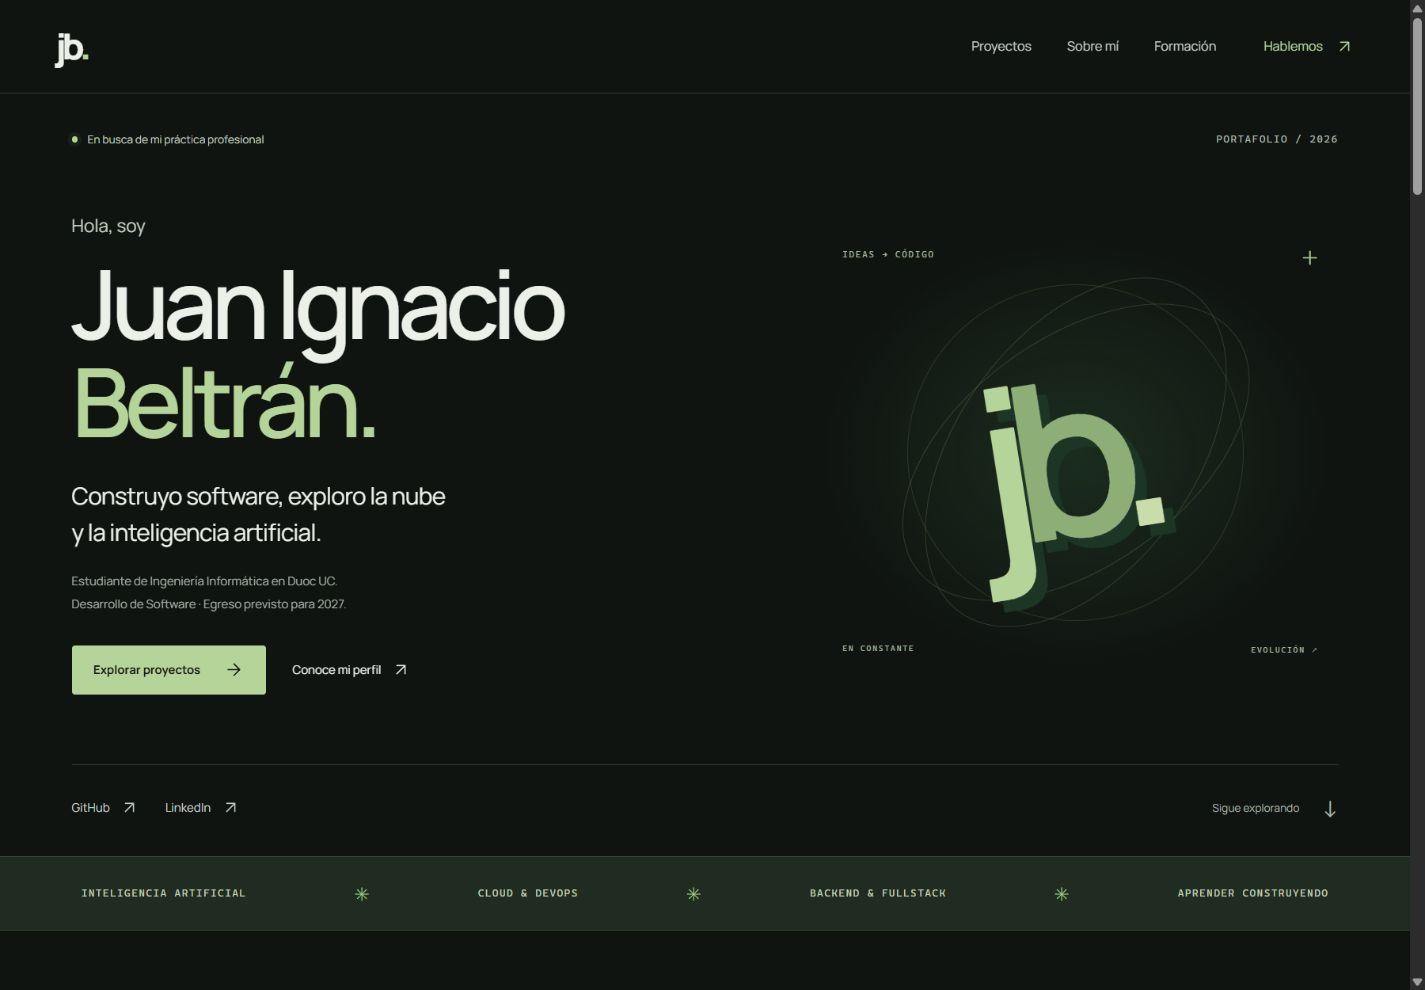
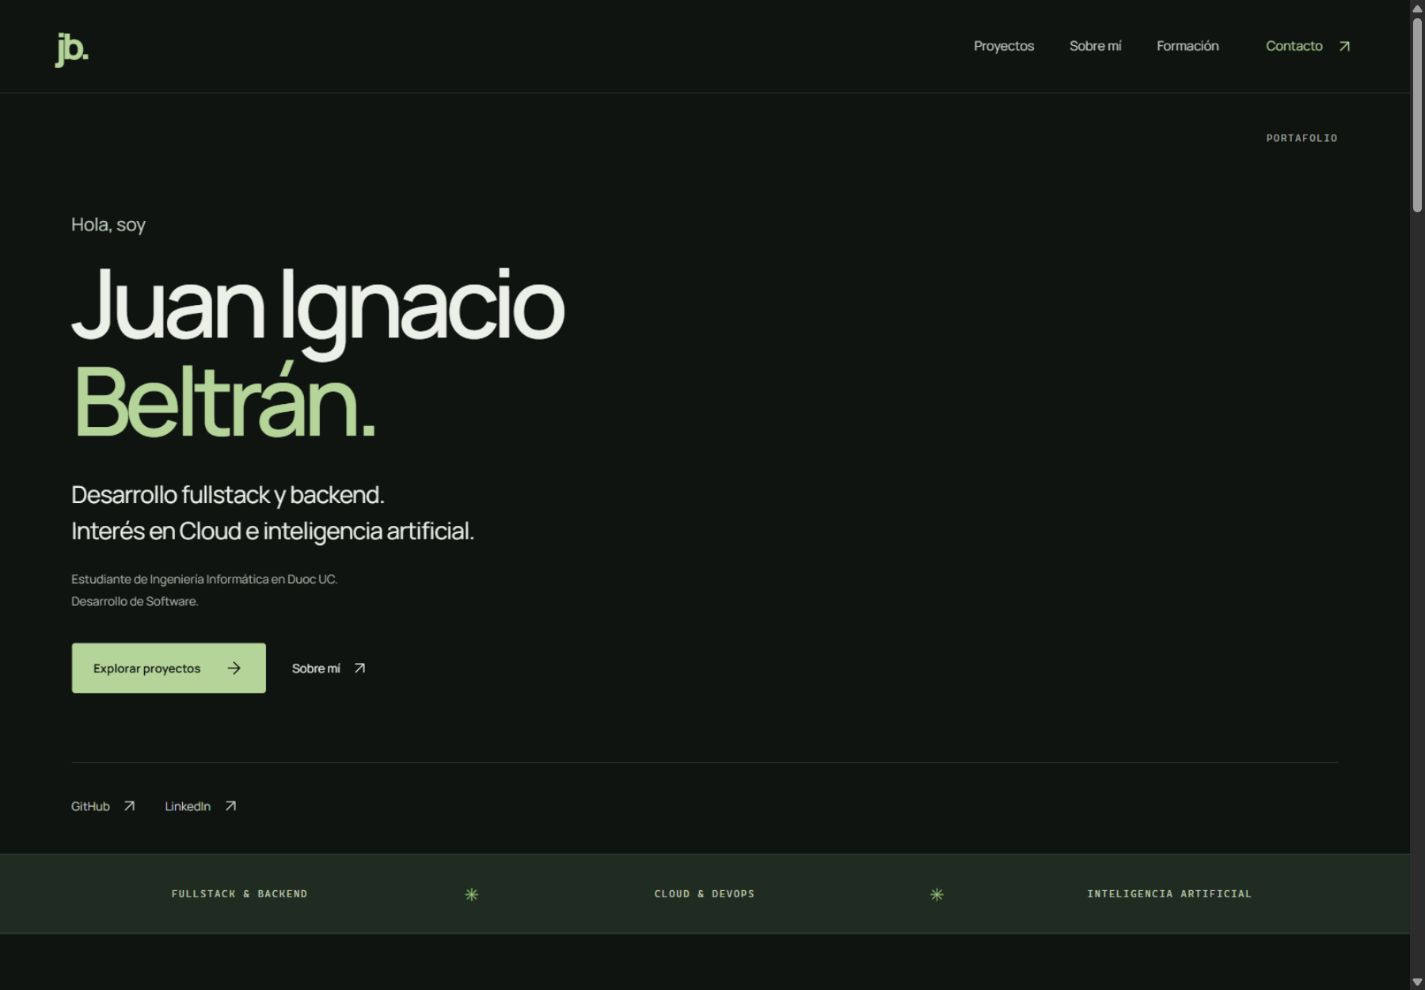
docs: refresh portfolio validation and screenshots

diff --git a/docs/validation.md b/docs/validation.md
@@ -1,5 +1,19 @@
 # Validación del rediseño
 
+## Revisión de contenido y captura — 21 de octubre de 2026
+
+- `npm run lint`, `npm run typecheck` y `npm run build`: correctos.
+- Revisión responsive a 320, 390, 768 y 1440 px: sin desbordamiento horizontal; las tres áreas de la barra verde tienen anchos equilibrados.
+- Portada sin disponibilidad, fecha de egreso ni indicador de desplazamiento. Enlaces sociales conservados; zona derecha sin ilustraciones.
+- Formación conserva su composición y el egreso previsto para 2027.
+- Menú móvil: apertura, cierre con Escape y cierre al seleccionar Contacto.
+- Ambos desplegables de proyectos: apertura y cierre con Enter. Country Clash identifica REST Countries v3.1, verificada en su código.
+- Todas las anclas internas resuelven; un solo `h1`; sin errores de consola.
+- Ambas imágenes cargan. PokePeluche usa la captura auténtica `catalogo-neutro.png` del repositorio, convertida completa a WebP (1425 × 1103). No queda pendiente una captura nueva.
+- Fuentes y límites de la verificación documentados en [Procedencia del contenido](content-sources.md). No se ejecutó una nueva demostración del backend de PokePeluche.
+
+## Validación inicial
+
 Comprobaciones realizadas el 20 de octubre de 2026:
 
 - `npm run lint`: correcto, sin advertencias de código.
@@ -23,5 +37,7 @@ No se ejecutó una auditoría automática completa de accesibilidad ni Lighthous
 ![Portada de escritorio](screenshots/desktop.jpg)
 
 ![Portada móvil](screenshots/mobile.jpg)
+
+![Proyectos actualizados](screenshots/projects.jpg)
 
 [Página completa](screenshots/full-page.jpg). En esta captura, las imágenes que están fuera del viewport inicial pueden mostrar el estado inicial de su transición de entrada; al desplazarse se muestran con opacidad completa.
